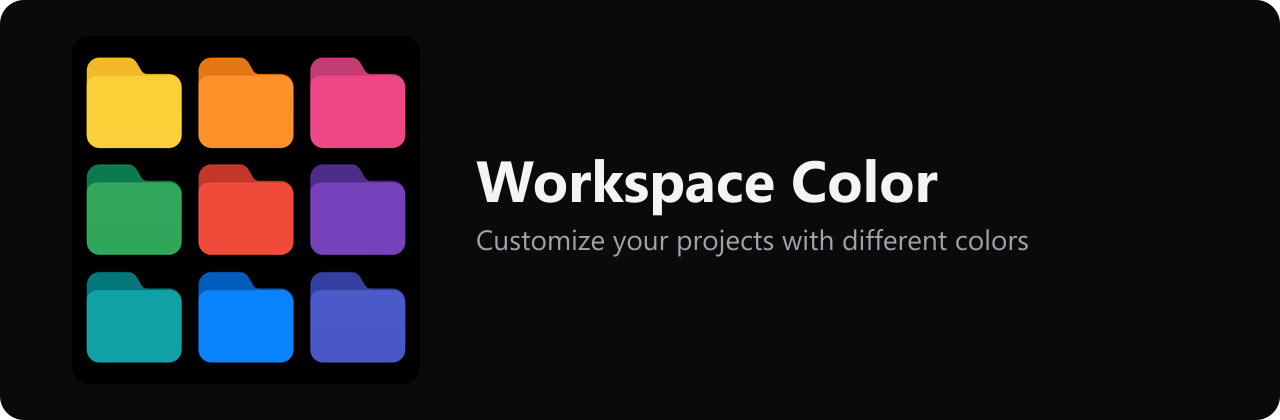
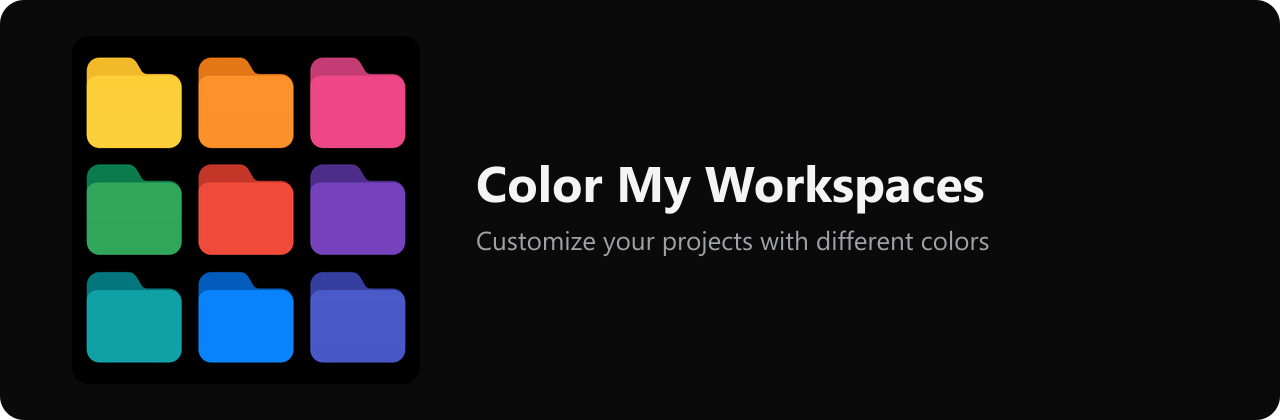
feat: publish as Color My Workspaces on the Marketplace
Use id color-my-workspaces, align branding/assets/docs, and keep shieldcn badges as PNG for vsce.

Changed region(s): [[0.375, 0.3714, 0.7812, 0.5262], [0.375, 0.5262, 0.8125, 0.619]]

diff --git a/src/panel.ts b/src/panel.ts
@@ -20,7 +20,7 @@ export function openColorPanel(
 
   panel = vscode.window.createWebviewPanel(
     "workspaceColor.settings",
-    "Workspace Color",
+    "Color My Workspaces",
     vscode.ViewColumn.Beside,
     {
       enableScripts: true,
@@ -84,7 +84,7 @@ function renderHtml(
   <meta charset="UTF-8" />
   <meta http-equiv="Content-Security-Policy" content="${csp}" />
   <meta name="viewport" content="width=device-width, initial-scale=1.0" />
-  <title>Workspace Color</title>
+  <title>Color My Workspaces</title>
   <link rel="stylesheet" href="${codiconCss}" />
   <style>
     @font-face {
@@ -408,7 +408,7 @@ function renderHtml(
 <body>
   <main class="page">
     <header>
-      <h1>Workspace Color</h1>
+      <h1>Color My Workspaces</h1>
       <p class="muted" id="statusLine" role="status"></p>
     </header>
     <div class="split">
@@ -517,7 +517,7 @@ function renderHtml(
     <div class="footer">
       <button type="button" class="cmd secondary" data-action="resetSettings" id="resetSettings" ${state.hasWorkspace ? "" : "disabled"}>Reset settings</button>
       <p class="support">
-        <a href="https://github.com/gvastethecreator/vscode-workspace-color" id="supportLink">
+        <a href="https://github.com/gvastethecreator/color-my-workspaces" id="supportLink">
           <svg viewBox="0 0 16 16" width="14" height="14" aria-hidden="true"><path fill="currentColor" d="M8 0C3.58 0 0 3.58 0 8c0 3.54 2.29 6.53 5.47 7.59.4.07.55-.17.55-.38 0-.19-.01-.82-.01-1.49-2.01.37-2.53-.49-2.69-.94-.09-.23-.48-.94-.82-1.13-.28-.15-.68-.52-.01-.53.63-.01 1.08.58 1.23.82.72 1.21 1.87.87 2.33.66.07-.52.28-.87.51-1.07-1.78-.2-3.64-.89-3.64-3.95 0-.87.31-1.59.82-2.15-.08-.2-.36-1.02.08-2.12 0 0 .67-.21 2.2.82.64-.18 1.32-.27 2-.27s1.36.09 2 .27c1.53-1.04 2.2-.82 2.2-.82.44 1.1.16 1.92.08 2.12.51.56.82 1.27.82 2.15 0 3.07-1.87 3.75-3.65 3.95.29.25.54.73.54 1.48 0 1.07-.01 1.93-.01 2.2 0 .21.15.46.55.38A8.013 8.013 0 0016 8c0-4.42-3.58-8-8-8z"/></svg>
           Support this project, give a star
         </a>

diff --git a/src/extension.ts b/src/extension.ts
@@ -19,7 +19,7 @@ import { formatStatusBarItem, formatStatusPreviewText, STATUS_CHIP_TEXT, statusB
 const DISABLED_KEY = "workspaceColor.disabled";
 const PREVIOUS_COLOR_KEY = "workspaceColor.previousColor";
 const WELCOME_KEY = "workspaceColor.didShowWelcome";
-const SUPPORT_URL = "https://github.com/gvastethecreator/vscode-workspace-color";
+const SUPPORT_URL = "https://github.com/gvastethecreator/color-my-workspaces";
 const TARGET = vscode.ConfigurationTarget.Workspace;
 const MODERN_UI_SETTING = "experimental.modernUI";
 // Git/SCM uses 10000. Remote uses +Infinity and stays first.
@@ -40,7 +40,7 @@ export function activate(context: vscode.ExtensionContext): void {
     vscode.StatusBarAlignment.Left,
     STATUS_CHIP_PRIORITY,
   );
-  chip.name = "Workspace Color";
+  chip.name = "Color My Workspaces";
   chip.command = "workspaceColor.quickActions";
   chip.text = STATUS_CHIP_TEXT;
   chip.tooltip = "Workspace color";
@@ -49,7 +49,7 @@ export function activate(context: vscode.ExtensionContext): void {
     vscode.StatusBarAlignment.Left,
     STATUS_LABEL_PRIORITY,
   );
-  label.name = "Workspace Color";
+  label.name = "Color My Workspaces";
   label.command = "workspaceColor.quickActions";
   label.tooltip = "Workspace color";
   const status: StatusItems = { chip, label };
@@ -453,7 +453,7 @@ async function maybeShowWelcome(context: vscode.ExtensionContext): Promise<void>
   }
   welcomeQueued = true;
   await context.globalState.update(WELCOME_KEY, true);
-  const open = "Open Workspace Color Settings";
+  const open = "Open Color My Workspaces Settings";
   const choice = await vscode.window.showInformationMessage(
     "This workspace is colored. Click the project name in the status bar to change it.",
     open,

diff --git a/src/quickActions.ts b/src/quickActions.ts
@@ -40,7 +40,7 @@ export async function pickPaletteColor(
   currentColor?: string,
 ): Promise<string | undefined> {
   const picked = await vscode.window.showQuickPick(paletteItems(palette, currentColor), {
-    title: "Workspace Color",
+    title: "Color My Workspaces",
     placeHolder: "Pick a color",
     matchOnDescription: true,
   });
@@ -55,7 +55,7 @@ export function statusActionItems(input: {
   applied?: boolean;
 }): ActionItem[] {
   const items: ActionItem[] = [
-    { label: "$(gear) Workspace Color Settings", action: { type: "settings" } },
+    { label: "$(gear) Color My Workspaces Settings", action: { type: "settings" } },
     {
       label: input.showStatusBarLabel ? "$(eye-closed) Hide status bar name" : "$(eye) Show status bar name",
       action: { type: "toggleLabel" },
@@ -109,7 +109,7 @@ export async function pickStatusAction(input: {
   applied?: boolean;
 }): Promise<StatusAction | undefined> {
   const picked = await vscode.window.showQuickPick(statusActionItems(input), {
-    title: "Workspace Color",
+    title: "Color My Workspaces",
     placeHolder: "Change this workspace color",
     matchOnDescription: true,
   });

diff --git a/README.md b/README.md
@@ -1,14 +1,12 @@
+<img src="media/social-preview.png" alt="Color My Workspaces" width="100%" />
 
 
-<img src="media/social-preview.png" alt="Workspace Color" width="100%" />
-
-
-# Workspace Color
+# Color My Workspaces
 
 >  **Give each VS Code or Cursor folder its own color on the title bar, activity bar, status bar, and command center.**
 ## Getting started
 
-1) Install **Workspace Color** from the [VS Code Marketplace](https://marketplace.visualstudio.com/items?itemName=gvastethecreator.workspace-color)
+1) Install **Color My Workspaces** from the [VS Code Marketplace](https://marketplace.visualstudio.com/items?itemName=gvastethecreator.color-my-workspaces)
 2) Open a folder, and click the project name on the left of the status bar to change the color.
 
 
@@ -18,8 +16,8 @@
 
 
 <p align="right">
-  <a href="https://github.com/gvastethecreator/vscode-workspace-color/actions/workflows/ci.yml"><img alt="CI status" src="https://shieldcn.dev/github/ci/gvastethecreator/vscode-workspace-color.svg?workflow=CI&branch=main&variant=secondary&size=xs" /></a>
-  <a href="https://marketplace.visualstudio.com/items?itemName=gvastethecreator.workspace-color"><img alt="VS Code Marketplace" src="https://shieldcn.dev/vscode/installs/gvastethecreator/workspace-color.svg?variant=secondary&size=xs" /></a>
-  <a href="https://github.com/gvastethecreator/vscode-workspace-color/stargazers"><img alt="GitHub stars" src="https://shieldcn.dev/github/stars/gvastethecreator/vscode-workspace-color.svg?variant=secondary&size=xs" /></a>
-  <a href="LICENSE"><img alt="MIT license" src="https://shieldcn.dev/github/license/gvastethecreator/vscode-workspace-color.svg?variant=secondary&size=xs" /></a>
+  <a href="https://github.com/gvastethecreator/color-my-workspaces/actions/workflows/ci.yml"><img alt="CI status" src="https://shieldcn.dev/github/ci/gvastethecreator/color-my-workspaces.png?workflow=CI&branch=main&variant=secondary&size=xs" /></a>
+  <a href="https://marketplace.visualstudio.com/items?itemName=gvastethecreator.color-my-workspaces"><img alt="VS Code Marketplace" src="https://shieldcn.dev/vscode/installs/gvastethecreator/color-my-workspaces.png?variant=secondary&size=xs" /></a>
+  <a href="https://github.com/gvastethecreator/color-my-workspaces/stargazers"><img alt="GitHub stars" src="https://shieldcn.dev/github/stars/gvastethecreator/color-my-workspaces.png?variant=secondary&size=xs" /></a>
+  <a href="LICENSE"><img alt="MIT license" src="https://shieldcn.dev/github/license/gvastethecreator/color-my-workspaces.png?variant=secondary&size=xs" /></a>
 </p>

diff --git a/docs/publishing.md b/docs/publishing.md
@@ -1,6 +1,6 @@
 # Publishing to the VS Code Marketplace
 
-This guide covers packaging Workspace Color and publishing it under the `gvastethecreator` publisher.
+This guide covers packaging Color My Workspaces (`color-my-workspaces`) and publishing it under the `gvastethecreator` publisher.
 
 ## Checklist before first publish
 
@@ -38,7 +38,7 @@ The extension is bundled with esbuild, so there are no runtime `dependencies`. U
 pnpm run vsix
 ```
 
-That runs the production build, then `vsce package --no-dependencies`. Output: `workspace-color-<version>.vsix` (gitignored).
+That runs the production build, then `vsce package --no-dependencies`. Output: `color-my-workspaces-<version>.vsix` (gitignored).
 
 Inspect contents if needed:
 
@@ -91,7 +91,7 @@ Microsoft recommends workload identity federation + managed identity instead of 
 
 - Marketplace `icon` must be PNG, not SVG.
 - README / CHANGELOG images must resolve as HTTPS or as packaged relative files. Prefer relative `media/*.png` paths in this repo.
-- Do **not** put user SVG images in README or CHANGELOG.
+- Do **not** put user SVG images in README or CHANGELOG. shieldcn badges must use the `.png` endpoint (`.svg` is rejected by `vsce`).
 - Keep SVG sources out of the VSIX (already covered by `.vscodeignore`).
 
 ## Version and changelog
@@ -113,12 +113,12 @@ Cursor and some other editors also pull from [Open VSX](https://open-vsx.org/). 
 
 ```bash
 pnpm add -D ovsx
-pnpm exec ovsx publish workspace-color-<version>.vsix -p <OPEN_VSX_TOKEN>
+pnpm exec ovsx publish color-my-workspaces-<version>.vsix -p <OPEN_VSX_TOKEN>
 ```
 
 ## After publish
 
-- Marketplace page: `https://marketplace.visualstudio.com/items?itemName=gvastethecreator.workspace-color`
-- Install from the Extensions view by searching **Workspace Color**.
+- Marketplace page: `https://marketplace.visualstudio.com/items?itemName=gvastethecreator.color-my-workspaces`
+- Install from the Extensions view by searching **Color My Workspaces**.
 - Upload `media/social-preview.png` as the GitHub repository social preview image.
 - Watch the first issues for missing permissions / Modern UI notes already covered in the README.

diff --git a/CHANGELOG.md b/CHANGELOG.md
@@ -1,6 +1,6 @@
 # Changelog
 
-All notable changes to Workspace Color are documented in this file.
+All notable changes to Color My Workspaces are documented in this file.
 
 ## [0.0.1] - 2026-08-30
 
@@ -10,3 +10,4 @@ All notable changes to Workspace Color are documented in this file.
 - Settings panel with color preview, palette, HSB controls, and surface toggles
 - Status bar label / Codicon, stepped tones, folder-derived color, and Surprise Me
 - Marketplace assets: icon, panel screenshot, and social preview
+- Published as **Color My Workspaces** (`gvastethecreator.color-my-workspaces`)

diff --git a/SECURITY.md b/SECURITY.md
@@ -2,4 +2,4 @@
 
 This extension writes workspace settings only (`workbench.colorCustomizations` and `workspaceColor.*`). It does not send data off the machine.
 
-Report vulnerabilities through a [private GitHub security advisory](https://github.com/gvastethecreator/vscode-workspace-color/security/advisories/new). Do not open a public issue with exploit details.
+Report vulnerabilities through a [private GitHub security advisory](https://github.com/gvastethecreator/color-my-workspaces/security/advisories/new). Do not open a public issue with exploit details.

diff --git a/docs/codemap/codemap.md b/docs/codemap/codemap.md
@@ -1,4 +1,4 @@
-# Code map · vscode-workspace-color
+# Code map · color-my-workspaces
 
 generated: 2026-08-30T20:30:00Z
 commit: 9b391ac4ea3b
